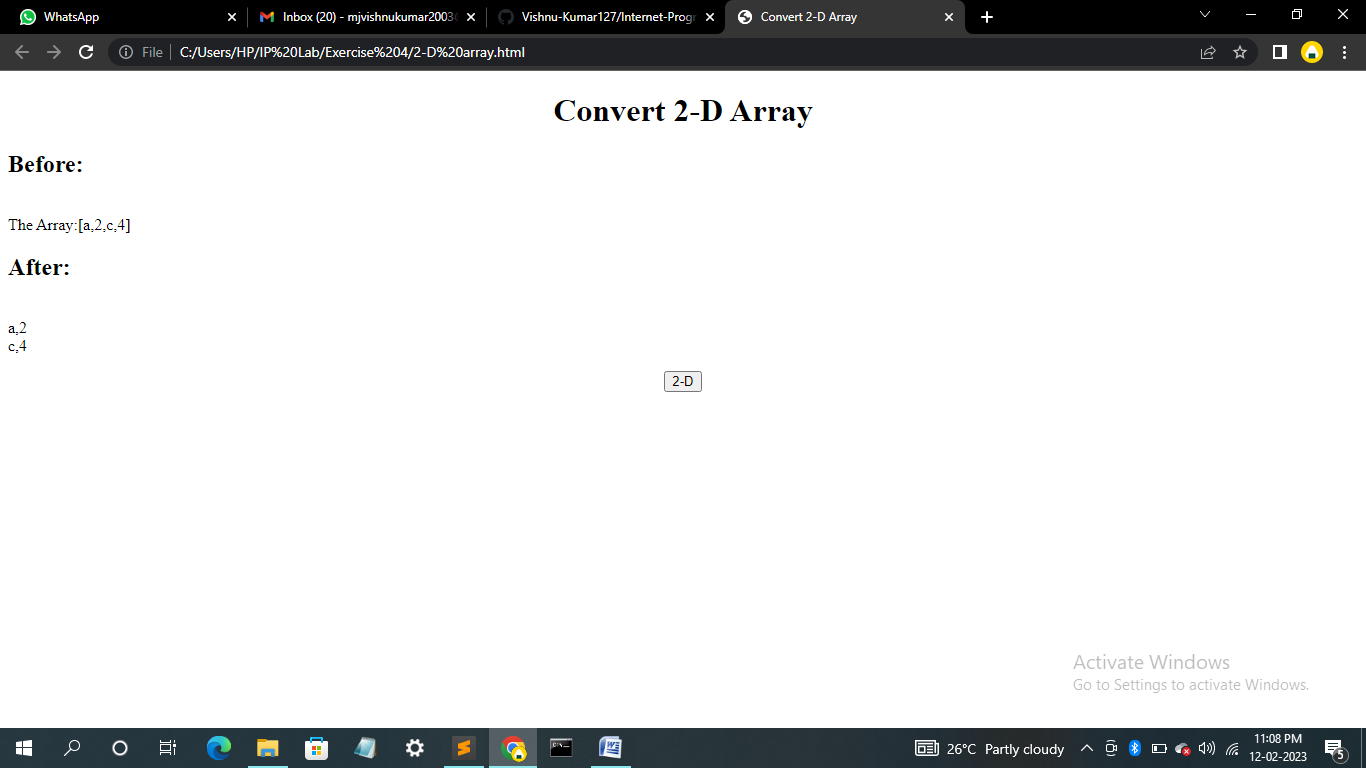
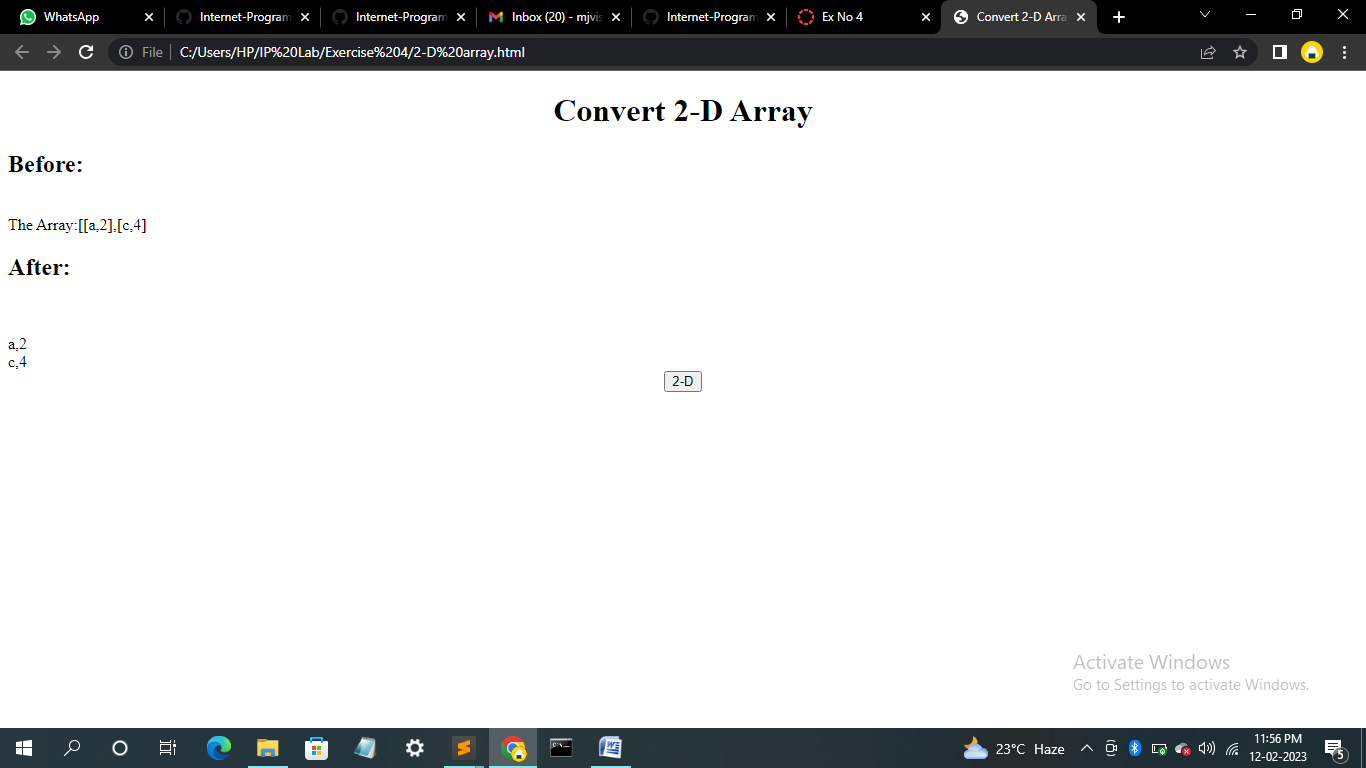
Add files via upload

diff --git a/Exercise 4/2-D array.html b/Exercise 4/2-D array.html
@@ -8,9 +8,11 @@
 <body>
 <center><h1>Convert 2-D Array</h1></center>
 	<h2>Before:</h2><br>
-	<div>The Array:[a,2,c,4]</div>
+	<div>The Array:[[a,2],[c,4]</div>
 	<h2>After:</h2><br>
 	<p id="demo"></p>
+	<div>a,2</div>
+	<div>c,4</div>
 	<center><button onclick="d()">2-D</button></center>
 	 <script>
             var array2D = [
